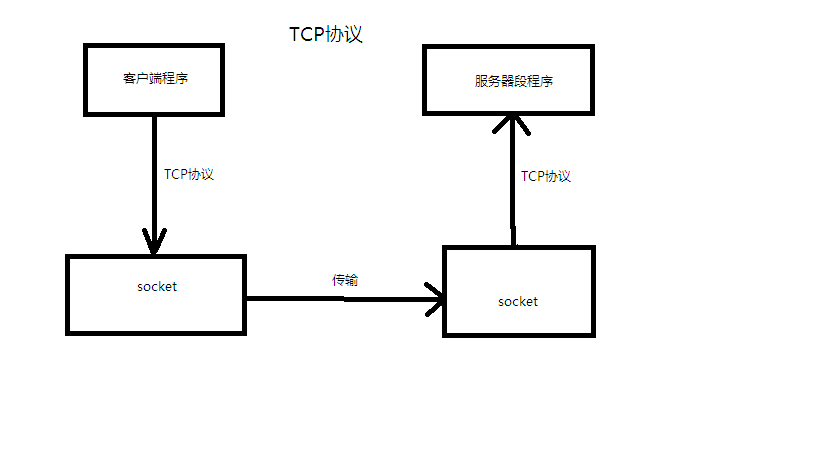
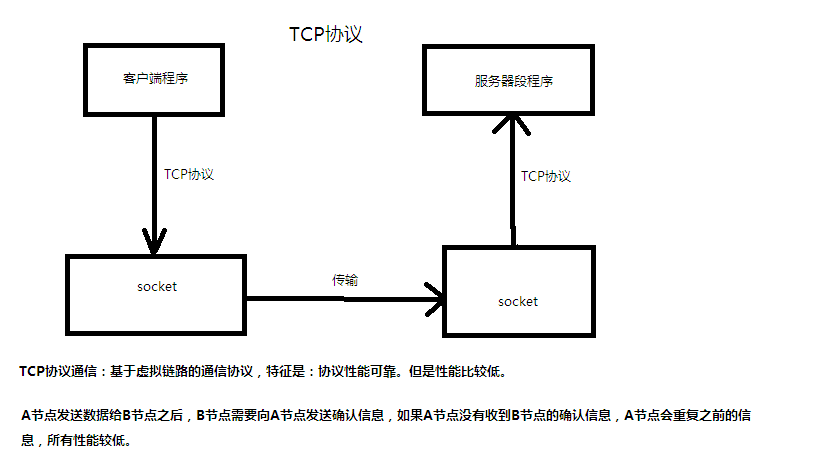
add udp communication && Internet commucation layer && TCPcommucation

Changed region(s): [[0.0305, 0.8826, 0.9158, 0.913], [0.0, 0.7913, 0.6105, 0.8217], [0.0305, 0.9435, 0.1526, 0.9739]]

diff --git a/Javanote.md b/Javanote.md
@@ -5481,6 +5481,8 @@ URL类使用示例：
 		}
 	}
 
+`TCP`通信
+
 `TCP`协议：如果两台计算机需要连接，那么`TCP`协议就会让他们之间建立一个连接：用于发送与接收数据的虚拟链路。见`TCP`协议图。  
 实际上这条链路两端连接的东西叫：`socket`，**相当于一个插座**。客户端程序和主机端程序都是建立在`socket`之上的。在客户端，通过`TCP`协议将程序发出的信息包转换、排列、发送出去(通过`socket`)；在主机端，在`socket`收到了数据之后，也通过`TCP`协议将`socket`收到的数据转换恢复过来。也叫套接字。实际上就是**插座**的意思。   
 `TCP`协议负责收集这些信息包，并将它们按适当的次序排好、通过下面的`socket`发送。在接收端的`socket`收到数据之后再通过`TCP`协议将其正确还原。  
@@ -5570,3 +5572,101 @@ b. 通过`I/O`流(使用`PrintStream`)向服务器段发送数据，也可以通
 输出时最好都转化成PrintStream进行输出(将OutputStream转化为PrintStream)，因为更方便。  
 输入时最好都转化为BufferedReader进行输入(将InputStream转化为BufferedReader)，因为这样最方便。  
 以上两条就是输入、输出（无论是网络还是磁盘）的最好的方法。
+
+
+`UDP`协议通信  
+`UDP`协议无需建立虚拟链路，其传输是不可靠的。  
+A节点以DatagramSocket发送数据报(类似与集装箱)，数据报携带数据，数据报上有目标地址，大部分情况下，数据报会抵达目标地址。  
+在某些时候，数据报会丢失——丢失了也不管。  
+UDP协议可能出现的情况：先发送的信息，反而后抵达目的。  
+
+常用的类：`DatagramSocket`与`DatagramPacket`。
+`DatagramSocket`：相当于“码头”，用于发送、接收数据报（也就是数据集装箱）。  
+`DatagramPacket`：相当于“数据集装箱”，也就是数据报。其作用是将数据装在一起。    
+客户端一般不指定端口，因为不知道所需端口是否已经被占用。  
+发送端：  
+1. 先创建码头(DatagramSocket)。无需固定IP。  
+2. 创建有数据、有目标地址(接收端服务器的IP地址与端口)的数据报。  
+3. 发送
+
+接收端：  
+1. 创建有固定IP、固定端口的码头(DatagramSocket)。  
+2. 创建空的数据报。  
+3. 接收。
+ 
+注意：在接收端接收到数据报之后，就可以从这个数据报中找到该数据报等待发送者的IP地址与端口。从而可以用这个IP地址向发送者返回数据报。  
+
+UDP协议通讯与TCP协议通信的区别在于：  
+TCP协议通信时，需要使用I/O来发送与读取数据。  
+UDP协议通信时，不需要使用I/O来发送与读取数据。  
+
+UDP协议使用示例：  
+
+UDP一端：  
+>
+	import java.net.*;
+	public class UDPATest
+	{
+		final static int MAX_SIZE=102400;
+		final static int PORT=30000;
+		public static void main(String[] args) 
+		{
+			try
+			{
+				//construct a DatagramSocket with specific port
+				DatagramSocket dgs = new DatagramSocket(PORT);
+				while(true)
+				{
+					//construct a DatagramPacket, it is aimed at storing the data which get by DatagramSocket
+					DatagramPacket dgp = new DatagramPacket(new byte[MAX_SIZE],MAX_SIZE);
+					//store the data into the DatagramPacket
+					dgs.receive(dgp); 
+					System.out.println(new String(dgp.getData(),0,dgp.getLength()));
+				}
+			}
+>			
+			catch(Exception e)
+			{
+				System.out.println("error");
+			}
+		}
+	}  
+
+UDP另一端：  
+>
+	import java.net.*;
+	import java.io.*; 
+	public class UDPBTest
+	{
+		final static int Server_PORT=30000;
+		public static void main(String[] args) 
+		{
+			try
+			{
+				//construct client's DatagramSocket without specific port
+				DatagramSocket dgs = new DatagramSocket();
+				BufferedReader br = new BufferedReader(new InputStreamReader(System.in));
+				String content = null;
+				while((content=br.readLine())!=null)
+				{
+					InetAddress iaa = InetAddress.getByAddress(new byte[]{10,23,96,124});
+					//construct a DatagramPacket, it is aimed at storing the data which will be transmitted by DatagramSocket,with server's address and port.
+					DatagramPacket dgp = new DatagramPacket(content.getBytes(),content.length(),iaa,Server_PORT); 
+					//send the data
+					dgs.send(dgp); 
+				}
+			}
+>			
+			catch(Exception e)
+			{
+				System.out.println("error");
+			}
+		}
+	}
+
+
+
+在使用TCP协议建立聊天程序的时候，需要建立一个服务器，将所有的内容进行转发到相应的客户端。  
+但是在使用UDP协议建立聊天程序的时候，无需建立服务器，可以二者直接聊天。  
+
+
